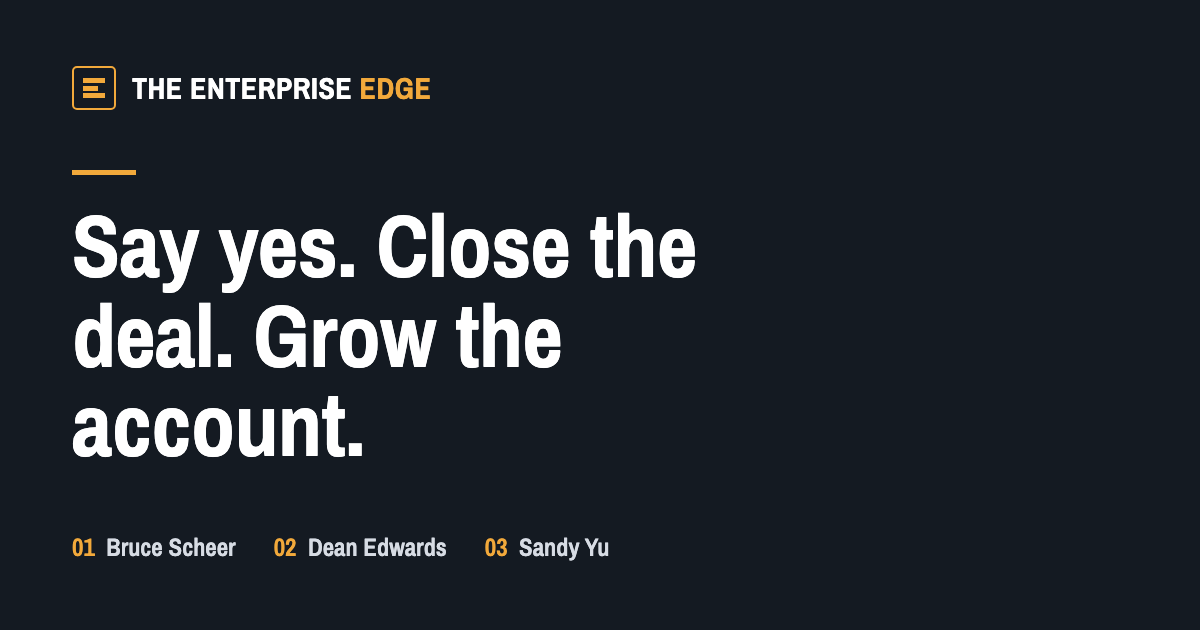
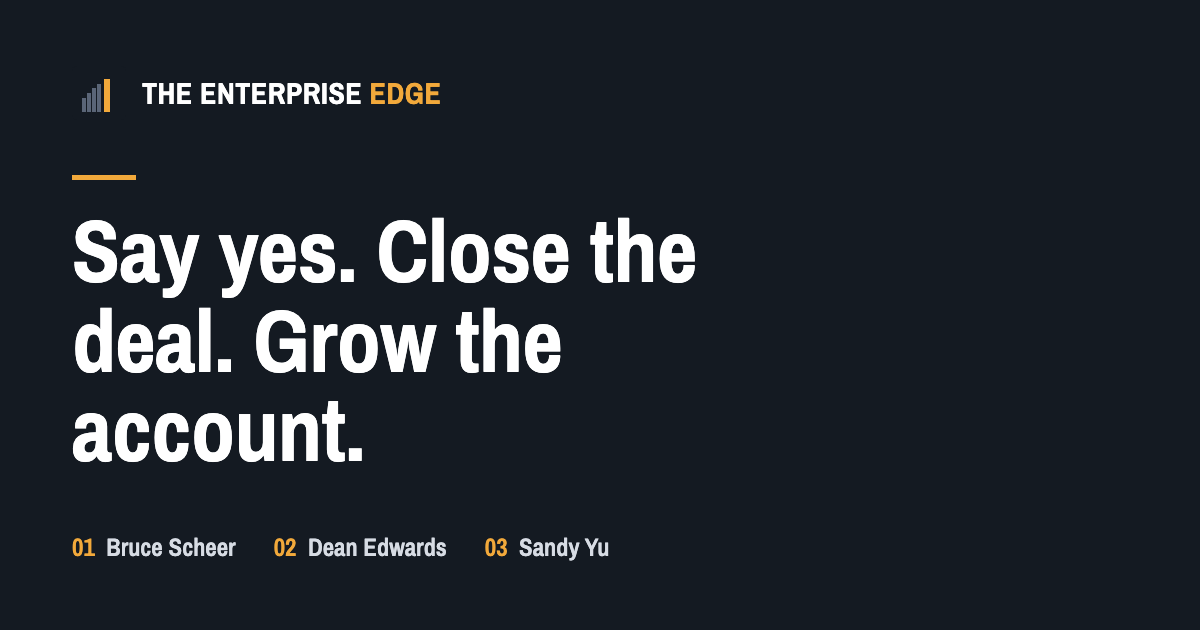
Adopt Dean's mark
Four receding bars and a fifth lit one: the known structure, and the way
through it. It replaces three amber bars that spelled an E, which read as
a monogram and said nothing about the program.

Rebuilt as geometry rather than traced from the mockup, so it stays sharp
at any size and can be recoloured in one line. Checked at 16, 32, 64 and
160px: the ascent and the lit bar survive all four, which a perspective
render with a light spill would not have.

Two departures from the mockup, both for legibility rather than taste. No
gradient or glow, because at favicon size both turn to mud. And the
receding bars are #5A6577 rather than near-black: at the mockup's value
they disappeared entirely against the graphite ground in the Open Graph
card, which is where the mark is seen smallest and most often.

The Open Graph template draws the same mark in CSS, so it moved with it.
Those two are duplicated by necessity and have to be kept in step.

diff --git a/tools/og.html b/tools/og.html
@@ -8,12 +8,16 @@ body{width:1200px;height:630px;background:#141A22;color:#fff;
   font-family:'Inter',sans-serif;padding:66px 72px;display:flex;
   flex-direction:column;justify-content:space-between;overflow:hidden}
 .top{display:flex;align-items:center;gap:16px}
-.mark{width:44px;height:44px;border-radius:5px;background:#141A22;
-  border:2px solid #F2A93B;position:relative;flex:0 0 auto}
-.mark i{position:absolute;left:9px;height:5px;background:#F2A93B;display:block}
-.mark i:nth-child(1){top:10px;width:22px}
-.mark i:nth-child(2){top:17.5px;width:15px}
-.mark i:nth-child(3){top:25px;width:22px}
+/* Matches public/assets/ee-mark.svg. Four receding bars and the lit way
+   through. Keep the two in step. */
+.mark{width:54px;height:54px;border-radius:5px;background:#141A22;
+  position:relative;flex:0 0 auto;overflow:hidden}
+.mark i{position:absolute;bottom:8px;background:#5A6577;display:block;width:4px}
+.mark i:nth-child(1){left:10px;height:14px}
+.mark i:nth-child(2){left:15px;height:19px}
+.mark i:nth-child(3){left:20px;height:24px}
+.mark i:nth-child(4){left:25px;height:28px}
+.mark i:nth-child(5){left:32px;height:33px;width:6px;background:#F2A93B}
 .wm{font-family:'Archivo Narrow',sans-serif;font-weight:700;font-size:30px;
   text-transform:uppercase;letter-spacing:.5px}
 .wm span{color:#F2A93B}
@@ -25,7 +29,7 @@ h1{font-family:'Archivo Narrow',sans-serif;font-weight:700;font-size:88px;
 .who b{color:#F2A93B;font-weight:600}
 </style></head><body>
 <div class="top">
-  <div class="mark"><i></i><i></i><i></i></div>
+  <div class="mark"><i></i><i></i><i></i><i></i><i></i></div>
   <div class="wm">The Enterprise <span>Edge</span></div>
 </div>
 <div>
